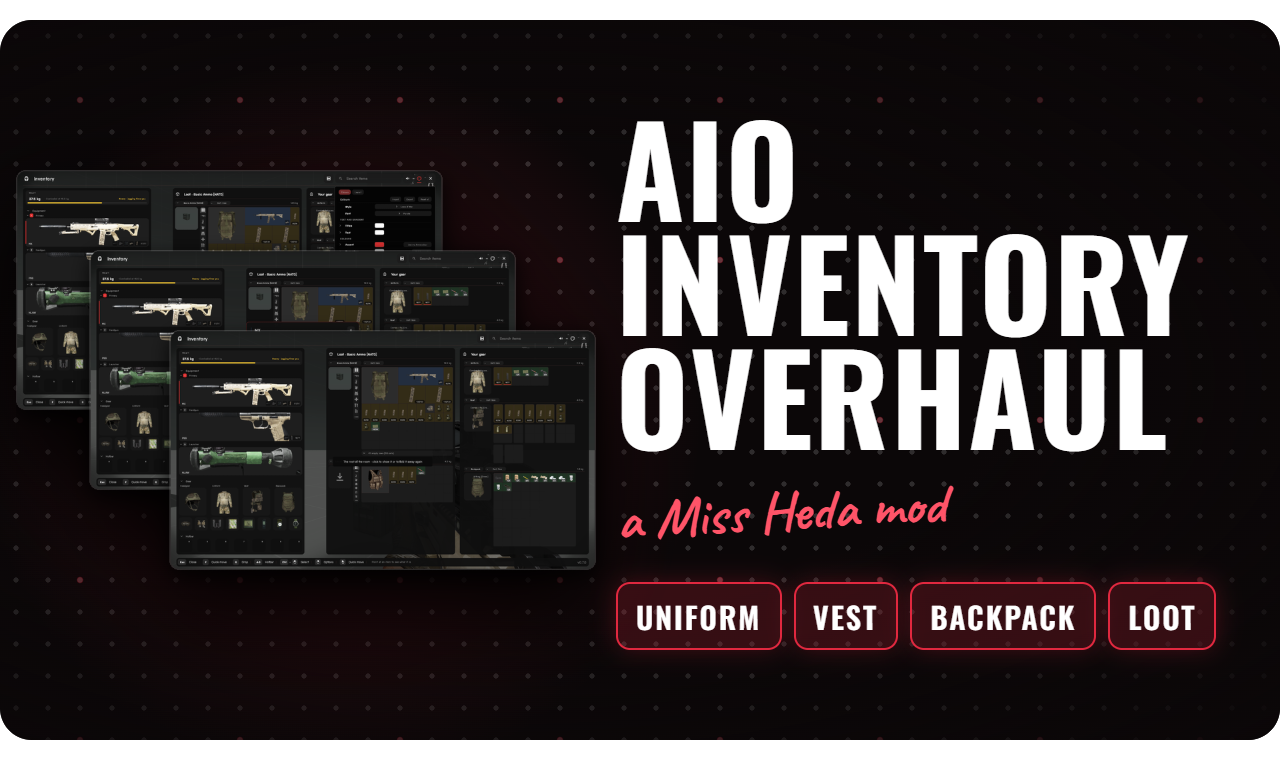
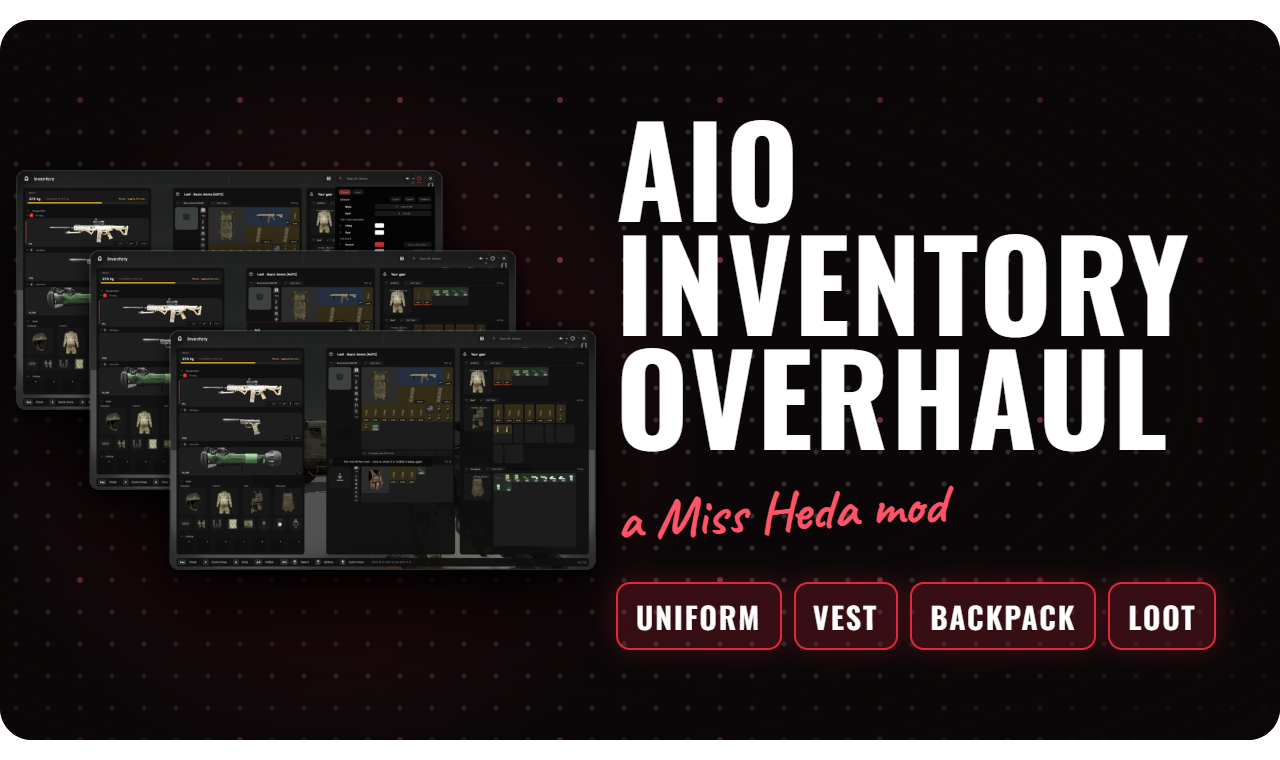
0.7.0: weapon pictures with more room, handguns at their size; new gallery and hero

diff --git a/addons/gui/defines.hpp b/addons/gui/defines.hpp
@@ -603,7 +603,9 @@
 #define CARD_3D_MAX_RES 1024
 #define CARD_3D_DISTANCE 0.95
 // How much of what the card shows the weapon fills, across or up and down - whichever it reaches first.
-#define CARD_3D_ROOM 0.9
+#define CARD_3D_ROOM 0.72
+// The shortest length a weapon card's picture is framed for, in metres: a handgun shows at a handgun's size, not card-filling.
+#define CARD_3D_MIN_LENGTH 0.75
 // A weapon's height side on, at most this share of its length: its box is taller than its profile (the MX came out a fifth of its
 // card, Mia 0.6.91).
 #define CARD_3D_PROFILE 0.42

diff --git a/CHANGELOG.md b/CHANGELOG.md
@@ -8,6 +8,10 @@ The release of everything since 0.6.29 (the beta builds 0.6.30 to 0.6.113 below)
 Attachments, Edit layout, the quick move target, one Colours and Layout card with your own font, GreenMag Rework and
 BackpackOnChest support, and many fixes.
 
+### Changed
+
+- Real weapon pictures keep more room round the weapon, and a handgun shows at a handgun's size instead of filling its card.
+
 ## 0.6.113 - beta
 
 Tested in game (MX with suppressor, optic and bipod, Mk200, P07 with suppressor, NLAW).
